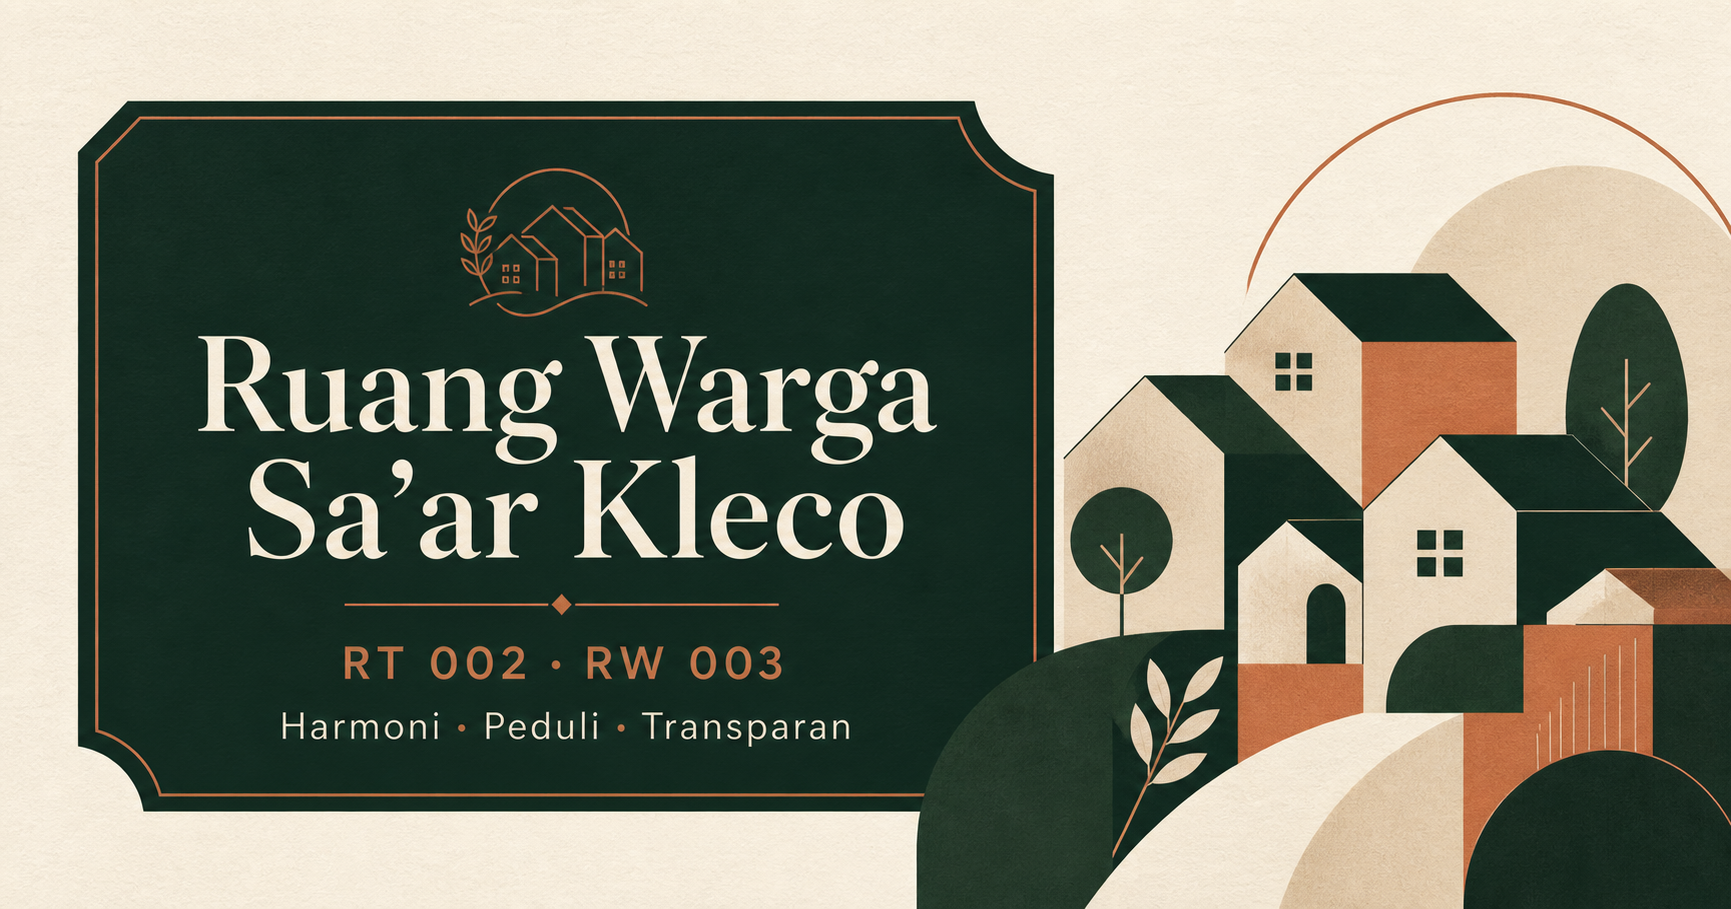
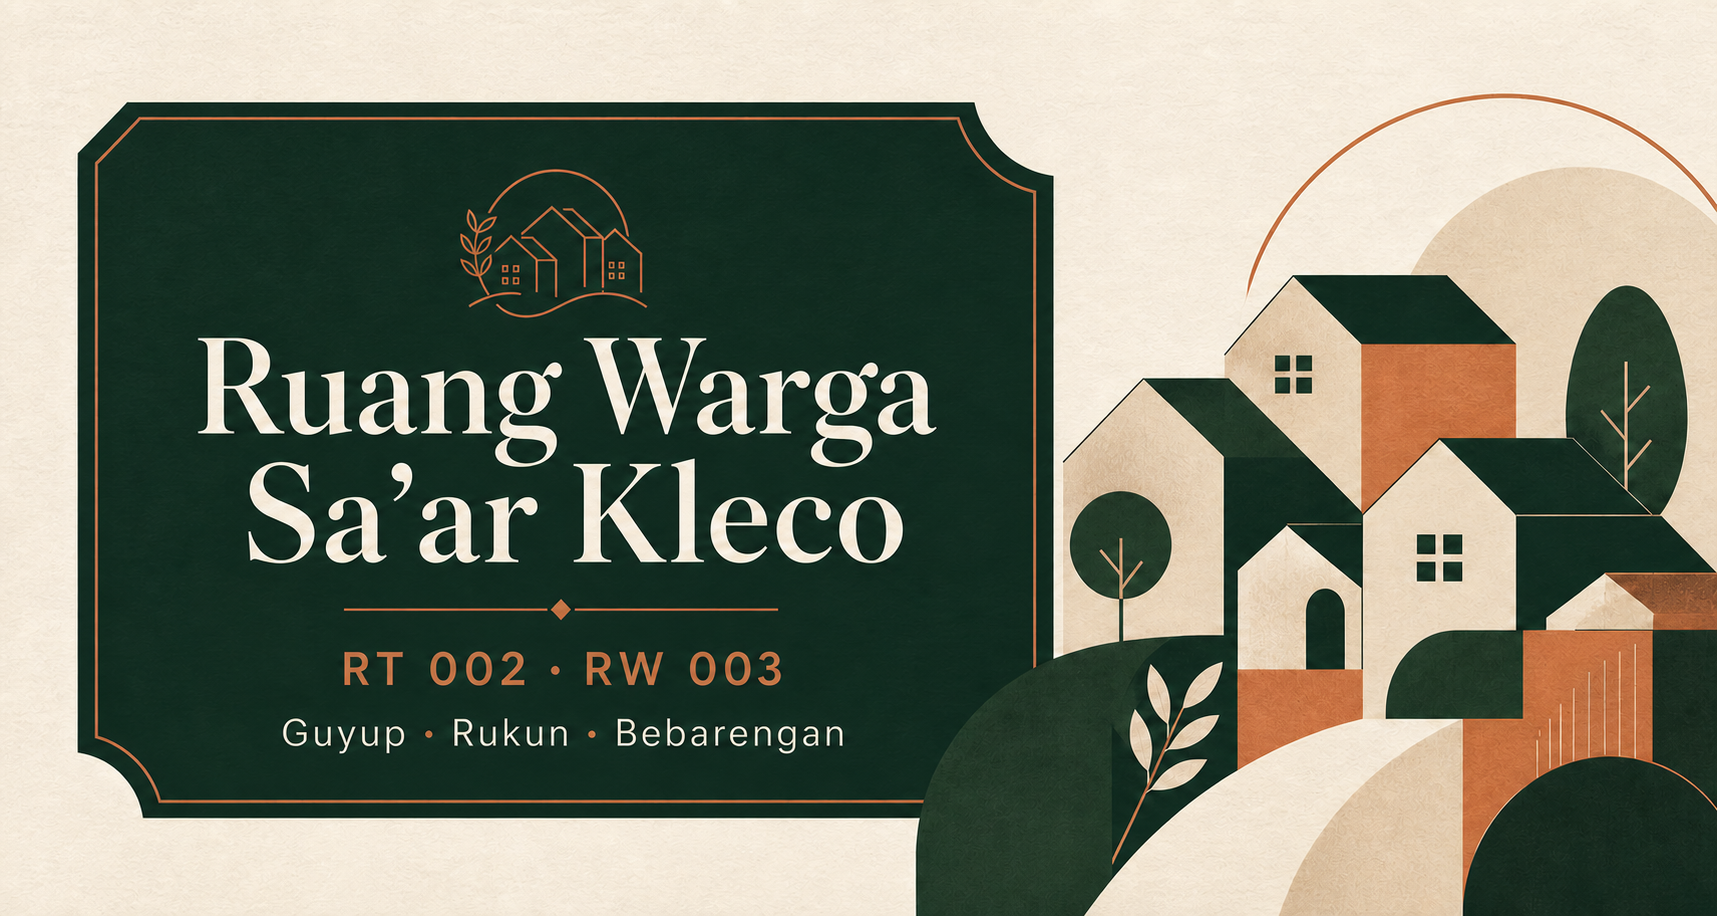
Refresh social sharing thumbnail

diff --git a/resources/views/layouts/app.blade.php b/resources/views/layouts/app.blade.php
@@ -11,15 +11,17 @@
     <meta property="og:title" content="@yield('title', 'Ruang Warga Sa’ar Kleco')">
     <meta property="og:description" content="Informasi warga yang tertata, transparan, dan mudah dijangkau dalam satu ruang bersama.">
     <meta property="og:url" content="{{ request()->fullUrl() }}">
-    <meta property="og:image" content="{{ asset('images/social-share.png') }}">
-    <meta property="og:image:type" content="image/png">
-    <meta property="og:image:width" content="1728">
-    <meta property="og:image:height" content="909">
+    <meta property="og:image" content="{{ url('/images/social-share.jpg') }}?v=3">
+    <meta property="og:image:url" content="{{ url('/images/social-share.jpg') }}?v=3">
+    <meta property="og:image:secure_url" content="{{ url('/images/social-share.jpg') }}?v=3">
+    <meta property="og:image:type" content="image/jpeg">
+    <meta property="og:image:width" content="1200">
+    <meta property="og:image:height" content="630">
     <meta property="og:image:alt" content="Ruang Warga Sa’ar Kleco, RT 002 RW 003">
     <meta name="twitter:card" content="summary_large_image">
     <meta name="twitter:title" content="@yield('title', 'Ruang Warga Sa’ar Kleco')">
     <meta name="twitter:description" content="Portal informasi dan kebersamaan warga Sa’ar Kleco.">
-    <meta name="twitter:image" content="{{ asset('images/social-share.png') }}">
+    <meta name="twitter:image" content="{{ url('/images/social-share.jpg') }}?v=3">
     <link rel="stylesheet" href="{{ asset('css/portal.css') }}">
     <link rel="stylesheet" href="{{ asset('css/ticker.css') }}">
     <link rel="stylesheet" href="{{ asset('css/custom.css') }}">
